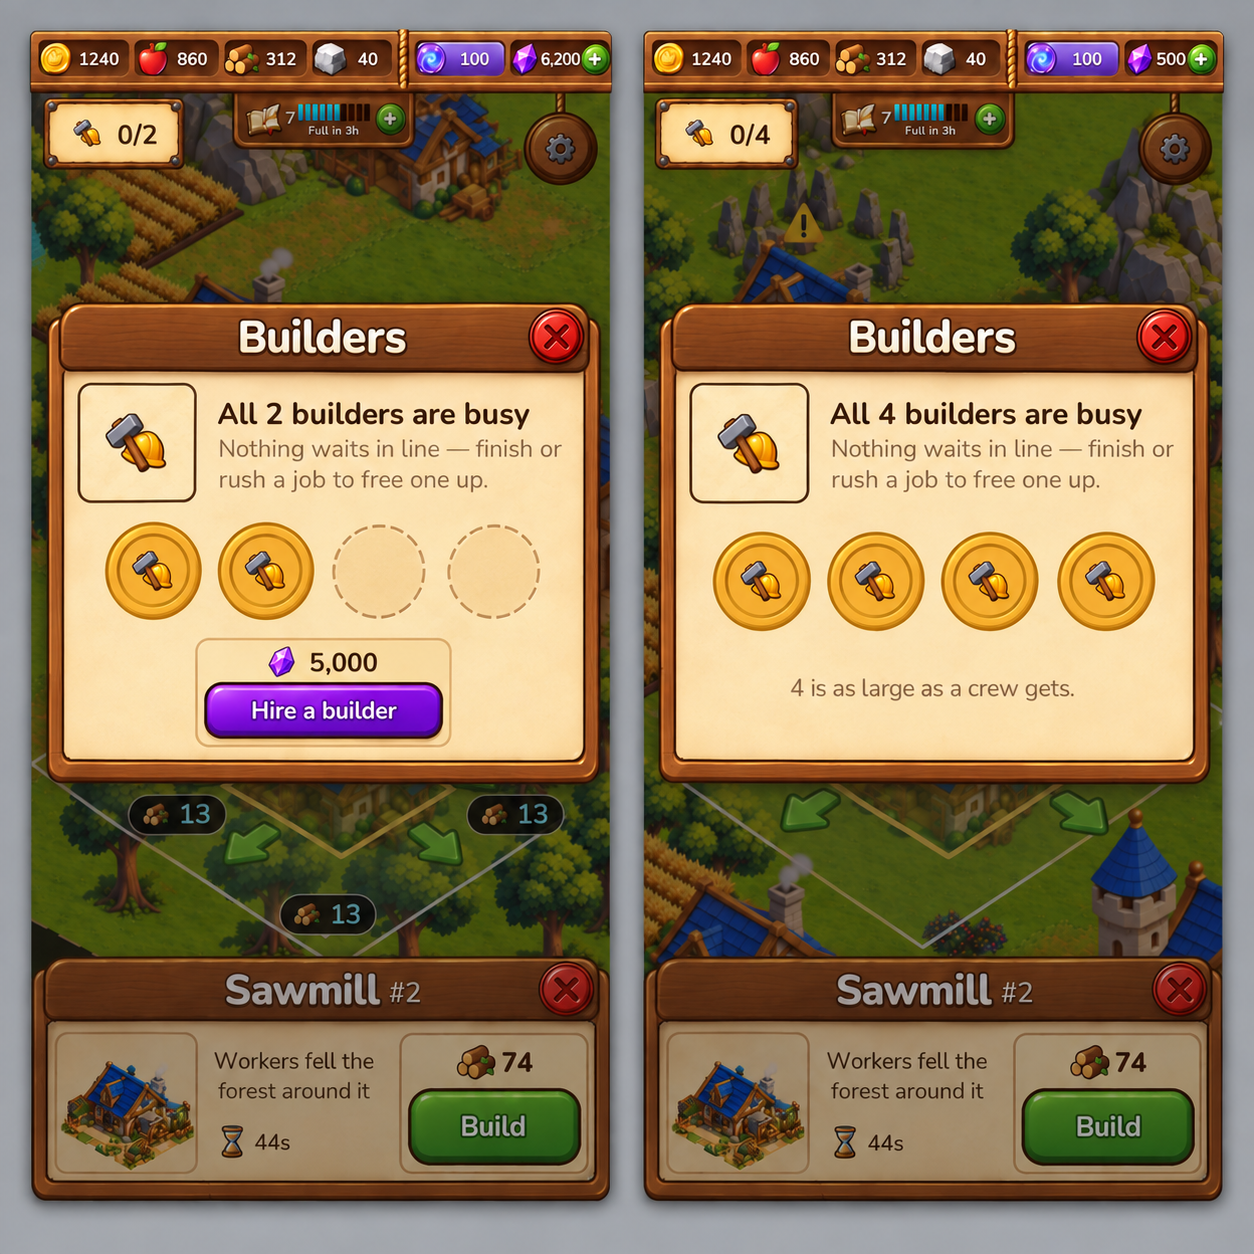
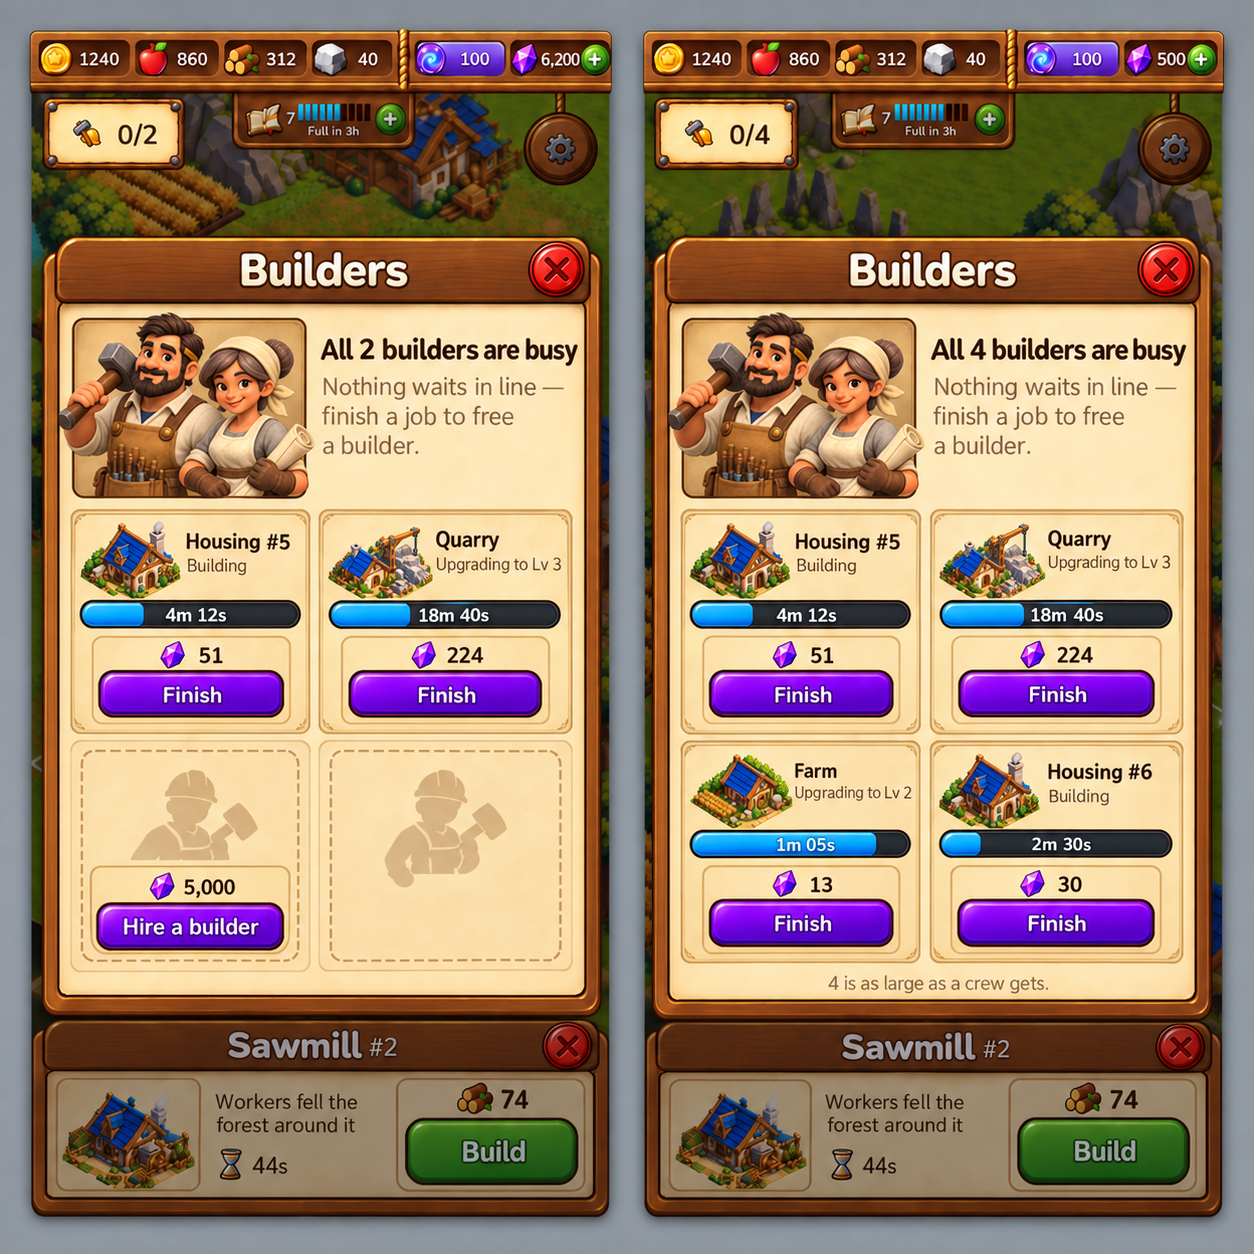
design(builders): the builder sheet shows what each builder is doing, with its time left and a Gem Finish
The sheet raised by a build every builder is too busy for now lists the
crew as a 2x2 grid of slots. A busy slot is the district card's
under-construction widget — the building, the task, the blue bar with the
time left, and a priced Finish — and the next empty slot holds Hire a
builder. Two builders, a man and a woman, are drawn at the top. Finishing a
job frees its builder and returns to the positioned ghost.

Rushing from the offer sheet was on the construction doc's list of things
deliberately not in the design; it is in the design now.

diff --git a/Docs/art/ui-menus-redesign.md b/Docs/art/ui-menus-redesign.md
@@ -1037,12 +1037,21 @@ window over the dimmed placement screen:
 
 - Header plank *Builders* and its close knob — the only way out; there is no
   *Not now*.
-- *All n builders are busy*, and under it *Nothing waits in line — finish or
-  rush a job to free one up.*
-- The crew as gold medallions, one per builder owned, and an empty socket for
-  each one still to hire up to the ceiling.
-- Below the ceiling: one priced gem button, *Hire a builder*, the Gems above
-  the slab. At the ceiling: no button, and *4 is as large as a crew gets.*
+- Top row: an illustration of two builders, a man and a woman, on its tile;
+  beside it *All n builders are busy* and *Nothing waits in line — finish a
+  job to free a builder.*
+- The crew: a 2×2 grid of slots, one per builder up to the ceiling.
+  - **Busy** — the district card's under-construction widget: the building's
+    sprite, its name and what is being done (*Building*, *Upgrading to Lv 3*),
+    the blue bar with the time left inside it, and under it the priced gem
+    **Finish**.
+  - **Empty, the next to hire** — a dashed socket holding the priced gem
+    **Hire a builder**.
+  - **Empty, further up** — the dashed socket alone.
+- At the ceiling there is no empty slot, and the grid ends with *4 is as
+  large as a crew gets.*
+- Finishing a job frees its builder and closes the sheet, back on the
+  positioned ghost: Build now starts.
 
 **Moving** uses the same screen: no price and no time, and the button reads
 *Move here*.

diff --git a/Docs/features/06-construction.md b/Docs/features/06-construction.md
@@ -23,13 +23,13 @@
 
 | State | Shows |
 |---|---|
-| Below the ceiling | what is happening, the crew as pips, and one priced button |
-| **At** the ceiling | the same, and **no button** |
+| Below the ceiling | every busy builder's job with its time left and a Gem **Finish**, and a **Hire a builder** in the next empty slot |
+| **At** the ceiling | the same, and **no hire** |
 
 - Placement mode stays open behind the sheet. Dismissing it returns the player
   to the positioned ghost.
-- The sheet says a job can be finished to free a builder; it does not sell the
-  Gem rush.
+- Finishing a job from the sheet frees its builder and returns to the
+  ghost.
 
 ## 3. The price
 
@@ -63,7 +63,6 @@
 - A waiting line, and any promotion or reordering logic (§1).
 - A `buildQueueCapacity` dial alongside the builder count.
 - A free trial of a builder.
-- Rushing offered inline in the offer sheet.
 - A store card for builders ([`14-monetization.md`](14-monetization.md) §2).
 - Cancelling a build, and the refund that went with it (§1).
 
